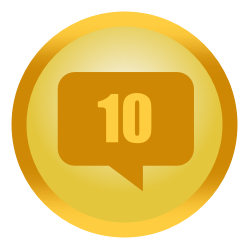
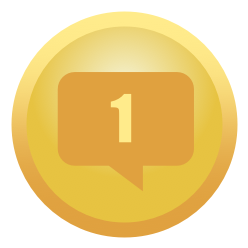
adding a 1 point badge to profile trophy case

diff --git a/app/controllers/application_controller.rb b/app/controllers/application_controller.rb
@@ -38,34 +38,46 @@ class ApplicationController < ActionController::Base
 
     if(user_signed_in?)
       if(@points >= 1000000)
-        if(Badge.where(user_id: current_user.id, badge_id: 7).first.nil?)
-          acquired = Badge.new(user_id: current_user.id, badge_id: 7,  date: Date.today.to_s, label: "Mama I made it!")
+        if(Badge.where(user_id: current_user.id, badge_id: 8).first.nil?)
+          acquired = Badge.new(user_id: current_user.id, badge_id: 8,  date: Date.today.to_s, label: "Mama I made it!")
           acquired.save!
+          cookies[:unlocked] = 8
         end
       elsif(@points >= 100000)
-        if(Badge.where(user_id: current_user.id, badge_id: 6).first.nil?)
-          acquired = Badge.new(user_id: current_user.id, badge_id: 6, date: Date.today.to_s, label: "The Fort Knox")
+        if(Badge.where(user_id: current_user.id, badge_id: 7).first.nil?)
+          acquired = Badge.new(user_id: current_user.id, badge_id: 7, date: Date.today.to_s, label: "The Fort Knox")
           acquired.save!
+          cookies[:unlocked] = 7
         end
       elsif(@points >= 10000)
-        if(Badge.where(user_id: current_user.id, badge_id: 5).first.nil?)
-          acquired = Badge.new(user_id: current_user.id, badge_id: 5, date: Date.today.to_s, label: "The Fukuzawa")
+        if(Badge.where(user_id: current_user.id, badge_id: 6).first.nil?)
+          acquired = Badge.new(user_id: current_user.id, badge_id: 6, date: Date.today.to_s, label: "The Fukuzawa")
           acquired.save!
+          cookies[:unlocked] = 6
         end
       elsif(@points >= 1000)
-        if(Badge.where(user_id: current_user.id, badge_id: 4).first.nil?)
-          acquired = Badge.new(user_id: current_user.id, badge_id: 4, date: Date.today.to_s, label: "The Hidalgo")
+        if(Badge.where(user_id: current_user.id, badge_id: 5).first.nil?)
+          acquired = Badge.new(user_id: current_user.id, badge_id: 5, date: Date.today.to_s, label: "The Hidalgo")
           acquired.save!
+          cookies[:unlocked] = 5
         end
       elsif(@points >= 100)
-        if(Badge.where(user_id: current_user.id, badge_id: 3).first.nil?)
-          acquired = Badge.new(user_id: current_user.id, badge_id: 3, date: Date.today.to_s, label: "The Benjamin")
+        if(Badge.where(user_id: current_user.id, badge_id: 4).first.nil?)
+          acquired = Badge.new(user_id: current_user.id, badge_id: 4, date: Date.today.to_s, label: "The Benjamin")
           acquired.save!
+          cookies[:unlocked] = 4
         end
       elsif(@points >= 10)
+        if(Badge.where(user_id: current_user.id, badge_id: 3).first.nil?)
+          acquired = Badge.new(user_id: current_user.id, badge_id: 3, date: Date.today.to_s, label: "Sir J Mac D")
+          acquired.save!
+          cookies[:unlocked] = 3
+        end
+      elsif(@points >= 1)
         if(Badge.where(user_id: current_user.id, badge_id: 2).first.nil?)
           acquired = Badge.new(user_id: current_user.id, badge_id: 2, date: Date.today.to_s, label: "Sir J Mac D")
           acquired.save!
+          cookies[:unlocked] = 2
         end
       else
         return 0
@@ -77,24 +89,28 @@ class ApplicationController < ActionController::Base
     @num_question = Question.where(user_id: current_user.id).count
     if(user_signed_in?)
       if(@num_question >= 1000)
-        if(Badge.where(user_id: current_user.id, badge_id: 11).first.nil?)
-          acquired = Badge.new(user_id: current_user.id, badge_id: 11, date: Date.today.to_s, label: "Confucius Say")
+        if(Badge.where(user_id: current_user.id, badge_id: 12).first.nil?)
+          acquired = Badge.new(user_id: current_user.id, badge_id: 12, date: Date.today.to_s, label: "Confucius Say")
           acquired.save!
+          cookies[:unlocked] = 12
         end
       elsif(@num_question >= 100)
-        if(Badge.where(user_id: current_user.id, badge_id: 10).first.nil?)
-          acquired = Badge.new(user_id: current_user.id, badge_id: 10, date: Date.today.to_s, label: "Professor")
+        if(Badge.where(user_id: current_user.id, badge_id: 11).first.nil?)
+          acquired = Badge.new(user_id: current_user.id, badge_id: 11, date: Date.today.to_s, label: "Professor")
           acquired.save!
+          cookies[:unlocked] = 11
         end
       elsif(@num_question >= 10)
-        if(Badge.where(user_id: current_user.id, badge_id: 9).first.nil?)
-          acquired = Badge.new(user_id: current_user.id, badge_id: 9, date: Date.today.to_s, label: "Curious George")
+        if(Badge.where(user_id: current_user.id, badge_id: 10).first.nil?)
+          acquired = Badge.new(user_id: current_user.id, badge_id: 10, date: Date.today.to_s, label: "Curious George")
           acquired.save!
+          cookies[:unlocked] = 10
         end
       elsif(@num_question >= 1)
-        if(Badge.where(user_id: current_user.id, badge_id: 8).first.nil?)
-          acquired = Badge.new(user_id: current_user.id, badge_id: 8, date: Date.today.to_s, label: "My Boy")
+        if(Badge.where(user_id: current_user.id, badge_id: 9).first.nil?)
+          acquired = Badge.new(user_id: current_user.id, badge_id: 9, date: Date.today.to_s, label: "My Boy")
           acquired.save!
+          cookies[:unlocked] = 9
         end
       else
         return 0
